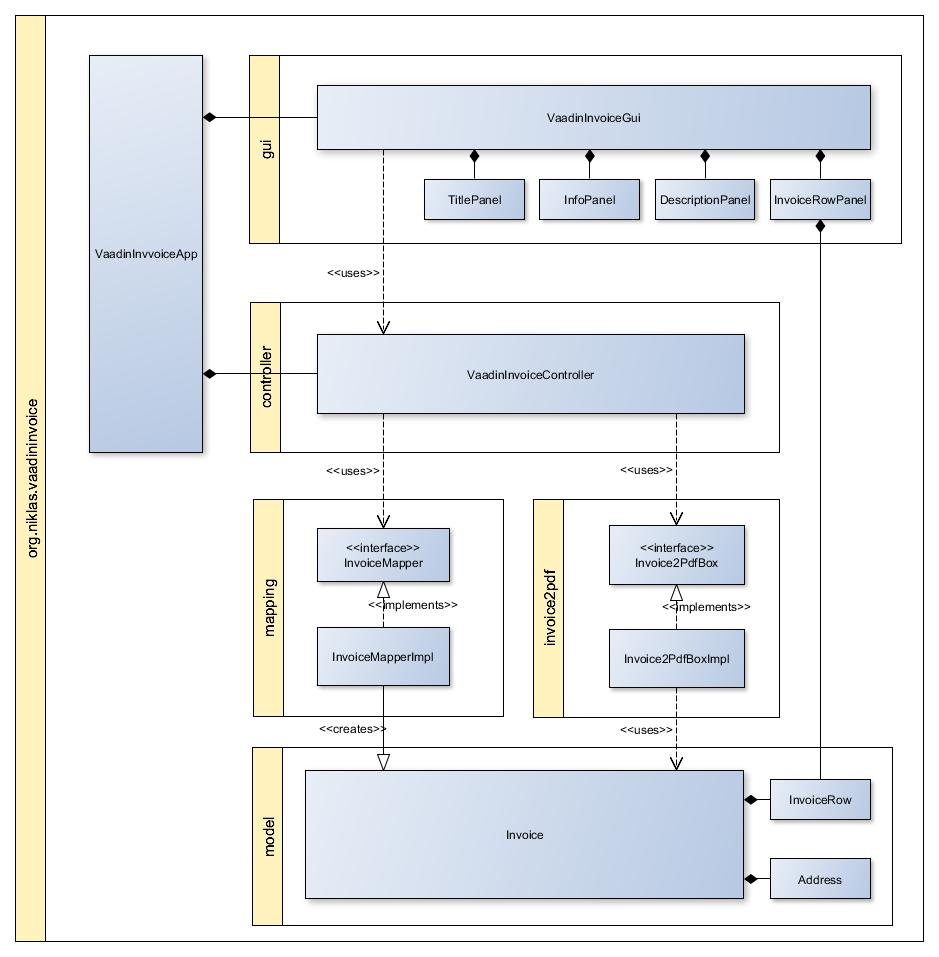
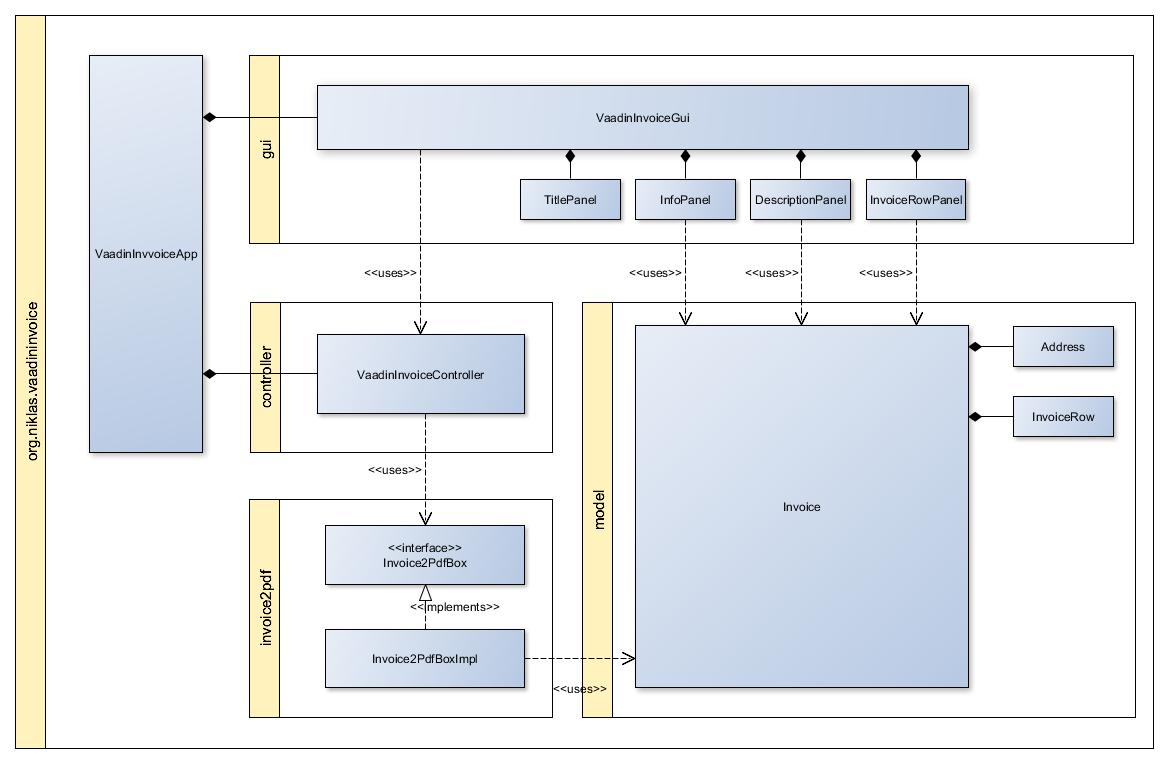
Removed unused imports and updated class diagram.

diff --git a/VaadinInvoiceGenerator/src/main/java/org/niklas/vaadininvoice/gui/InvoiceRowPanel.java b/VaadinInvoiceGenerator/src/main/java/org/niklas/vaadininvoice/gui/InvoiceRowPanel.java
@@ -1,15 +1,8 @@
 package org.niklas.vaadininvoice.gui;
 
-
-import java.text.DecimalFormat;
-import java.text.DecimalFormatSymbols;
 import java.util.ArrayList;
-import java.util.HashMap;
-import java.util.Locale;
-
 import org.niklas.vaadininvoice.model.Invoice;
 import org.niklas.vaadininvoice.model.InvoiceRow;
-
 import com.vaadin.data.Item;
 import com.vaadin.data.Property.ValueChangeEvent;
 import com.vaadin.data.Property.ValueChangeListener;
@@ -23,11 +16,9 @@ import com.vaadin.ui.Component;
 import com.vaadin.ui.GridLayout;
 import com.vaadin.ui.HorizontalLayout;
 import com.vaadin.ui.Label;
-import com.vaadin.ui.TextField;
 import com.vaadin.ui.VerticalLayout;
 import com.vaadin.ui.Panel;
 import com.vaadin.ui.Table;
-import com.vaadin.ui.VerticalLayout;
 
 public class InvoiceRowPanel extends Panel {
 	private BeanItem<Invoice> invoiceBean;
@@ -55,7 +46,6 @@ public class InvoiceRowPanel extends Panel {
 		invoiceRowTable = new Table();
 		editButton = new Button("Edit");
 		addRowButton = new Button("Add Item");
-//		invoiceRows = new HashMap<Integer, InvoiceRow>();
 		totalLabel = new Label("<b>Total:</b>", ContentMode.HTML);
 		subTotalLabel = new Label("Sub-total:");
 		vatTotalLabel = new Label("VAT total:");
@@ -199,38 +189,5 @@ public class InvoiceRowPanel extends Panel {
 		nextAvailableRowId++;
 		return id;
 	}
-	
-//	private String calculateTotal(HashMap<Integer, InvoiceRow> invoiceRows){
-//		Double total = (double) 0;
-//		for (InvoiceRow row:new ArrayList<InvoiceRow>(invoiceRows.values())) {
-//			total += row.getTotal();
-//		}
-//		return new DecimalFormat("###.##", new DecimalFormatSymbols(Locale.US)).format(total);
-//	}
-//
-//	
-//	private String calculateSubTotal(HashMap<Integer, InvoiceRow> invoiceRows){
-//		Double total = (double) 0;
-//		for (InvoiceRow row:new ArrayList<InvoiceRow>(invoiceRows.values())) {
-//			total += row.getSubTotal();
-//		}
-//		return new DecimalFormat("###.##", new DecimalFormatSymbols(Locale.US)).format(total);
-//	}
-//	
-//	private String calculateVat(HashMap<Integer, InvoiceRow> invoiceRows){
-//		Double total = (double) 0;
-//		for (InvoiceRow row:new ArrayList<InvoiceRow>(invoiceRows.values())) {
-//			total += row.getVatTotal();
-//		}
-//		return new DecimalFormat("###.##", new DecimalFormatSymbols(Locale.US)).format(total);
-//	}
-	
-//	public HashMap<Integer, InvoiceRow> getInvoiceRows() {
-//		return invoiceRows;
-//	}
-	
-//	public void commitFields(){
-//		
-//	}
 	
 }

diff --git a/VaadinInvoiceGenerator/src/main/java/org/niklas/vaadininvoice/gui/VaadinInvoiceGui.java b/VaadinInvoiceGenerator/src/main/java/org/niklas/vaadininvoice/gui/VaadinInvoiceGui.java
@@ -1,12 +1,7 @@
 package org.niklas.vaadininvoice.gui;
 
-import java.util.Date;
-import java.util.HashMap;
-
 import org.niklas.vaadininvoice.controller.VaadinInvoiceController;
 import org.niklas.vaadininvoice.model.Invoice;
-import org.niklas.vaadininvoice.model.InvoiceRow;
-
 import com.vaadin.data.fieldgroup.FieldGroup.CommitException;
 import com.vaadin.data.util.BeanItem;
 import com.vaadin.ui.Button;

diff --git a/VaadinInvoiceGenerator/src/main/java/org/niklas/vaadininvoice/controller/VaadinInvoiceController.java b/VaadinInvoiceGenerator/src/main/java/org/niklas/vaadininvoice/controller/VaadinInvoiceController.java
@@ -1,10 +1,7 @@
 package org.niklas.vaadininvoice.controller;
 
 import java.io.File;
-
-import org.niklas.vaadininvoice.gui.VaadinInvoiceGui;
 import org.niklas.vaadininvoice.invoice2pdf.Invoice2Pdf;
-import org.niklas.vaadininvoice.invoice2pdf.Invoice2PdfBoxImpl;
 import org.niklas.vaadininvoice.model.Invoice;
 
 public class VaadinInvoiceController {

diff --git a/VaadinInvoiceGenerator/src/main/java/org/niklas/vaadininvoice/model/Invoice.java b/VaadinInvoiceGenerator/src/main/java/org/niklas/vaadininvoice/model/Invoice.java
@@ -2,11 +2,9 @@ package org.niklas.vaadininvoice.model;
 
 import java.text.DecimalFormat;
 import java.text.DecimalFormatSymbols;
-import java.util.ArrayList;
 import java.util.Calendar;
 import java.util.Date;
 import java.util.HashMap;
-import java.util.List;
 import java.util.Locale;
 
 public class Invoice {
